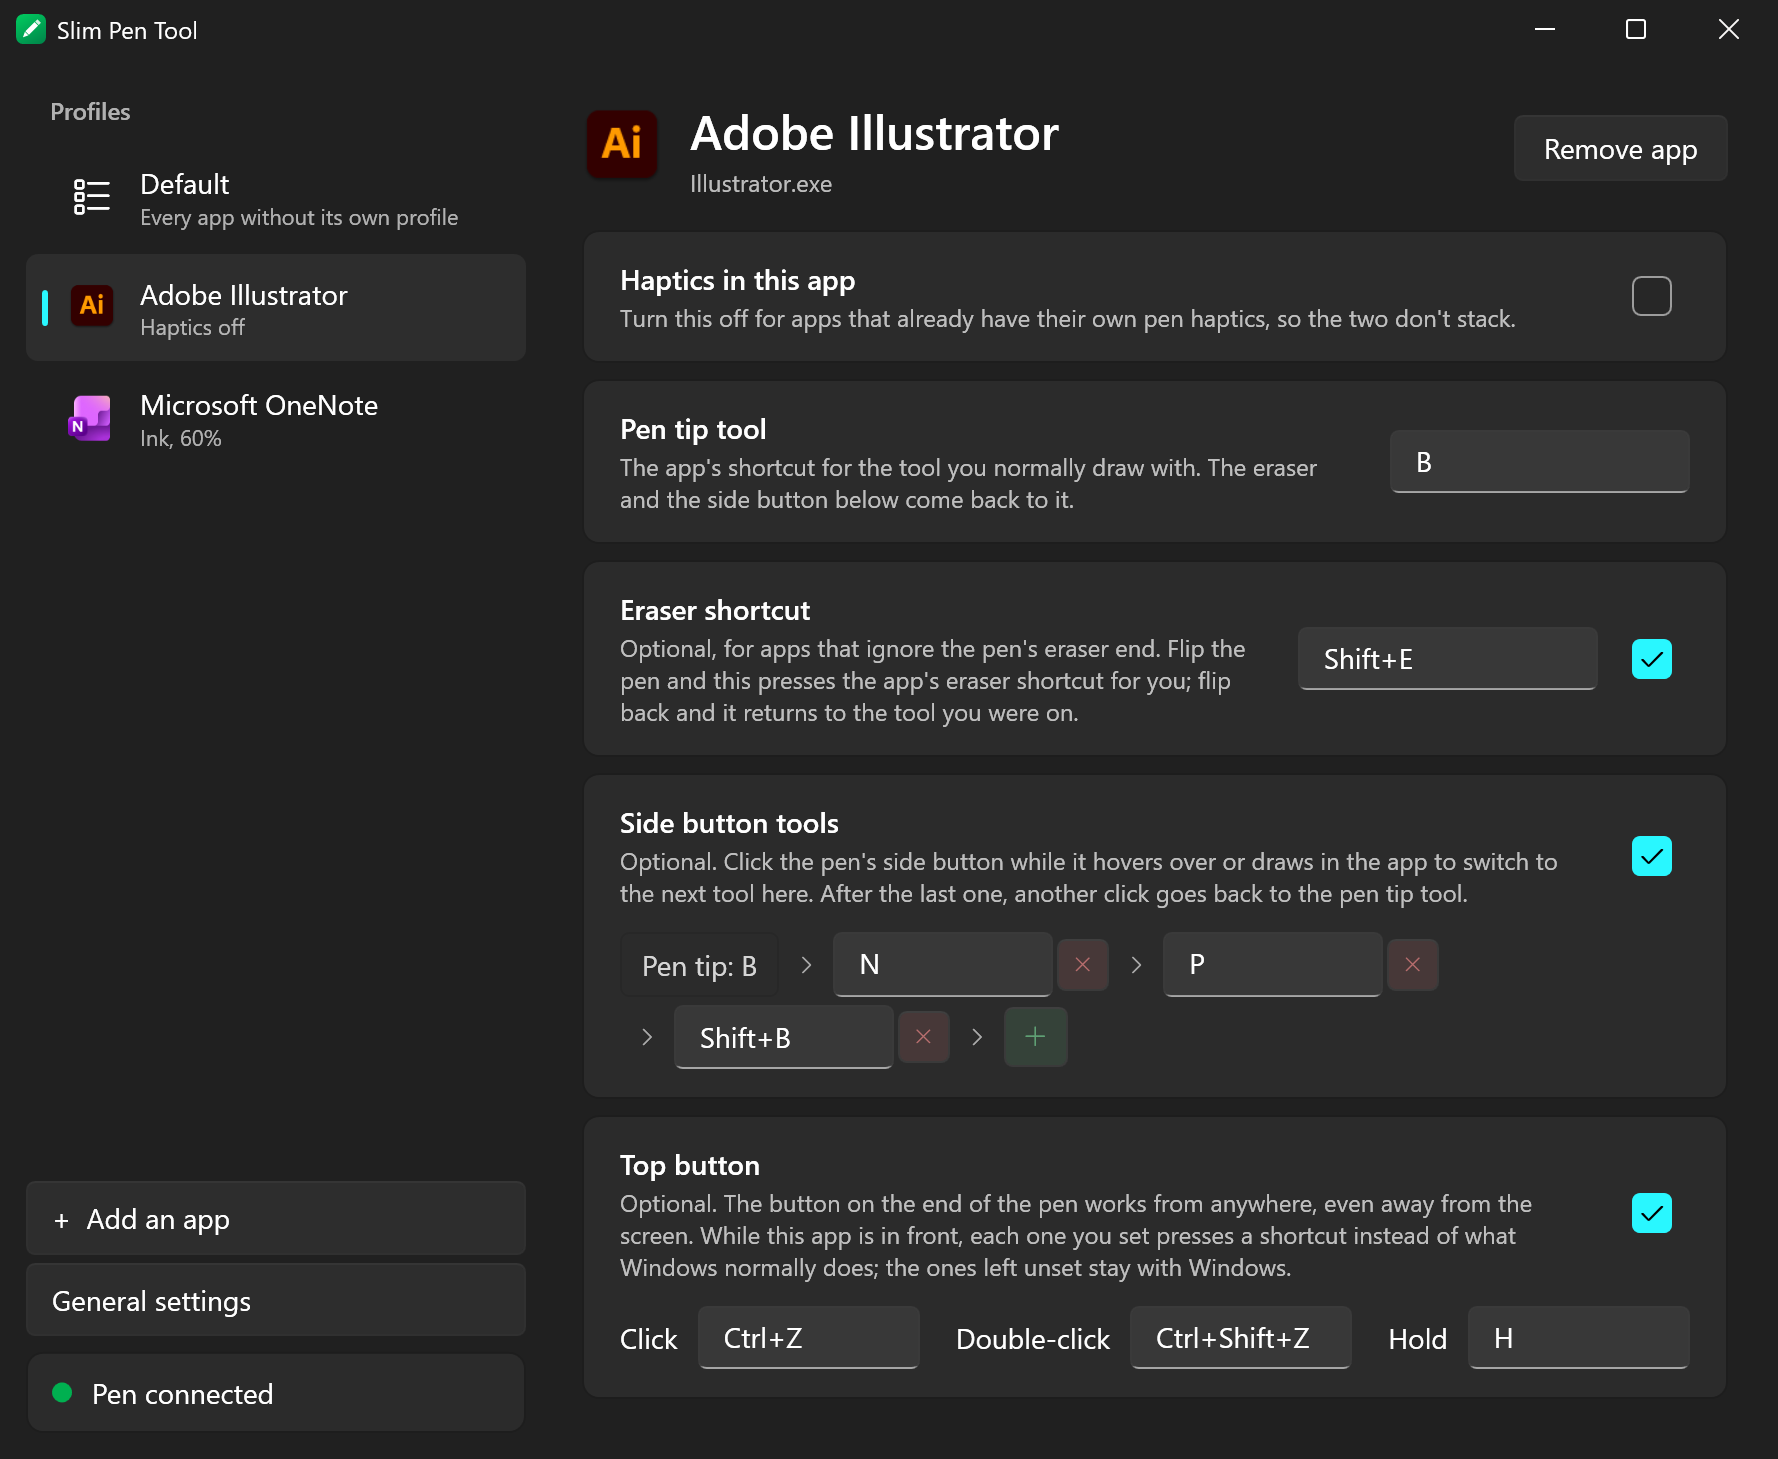
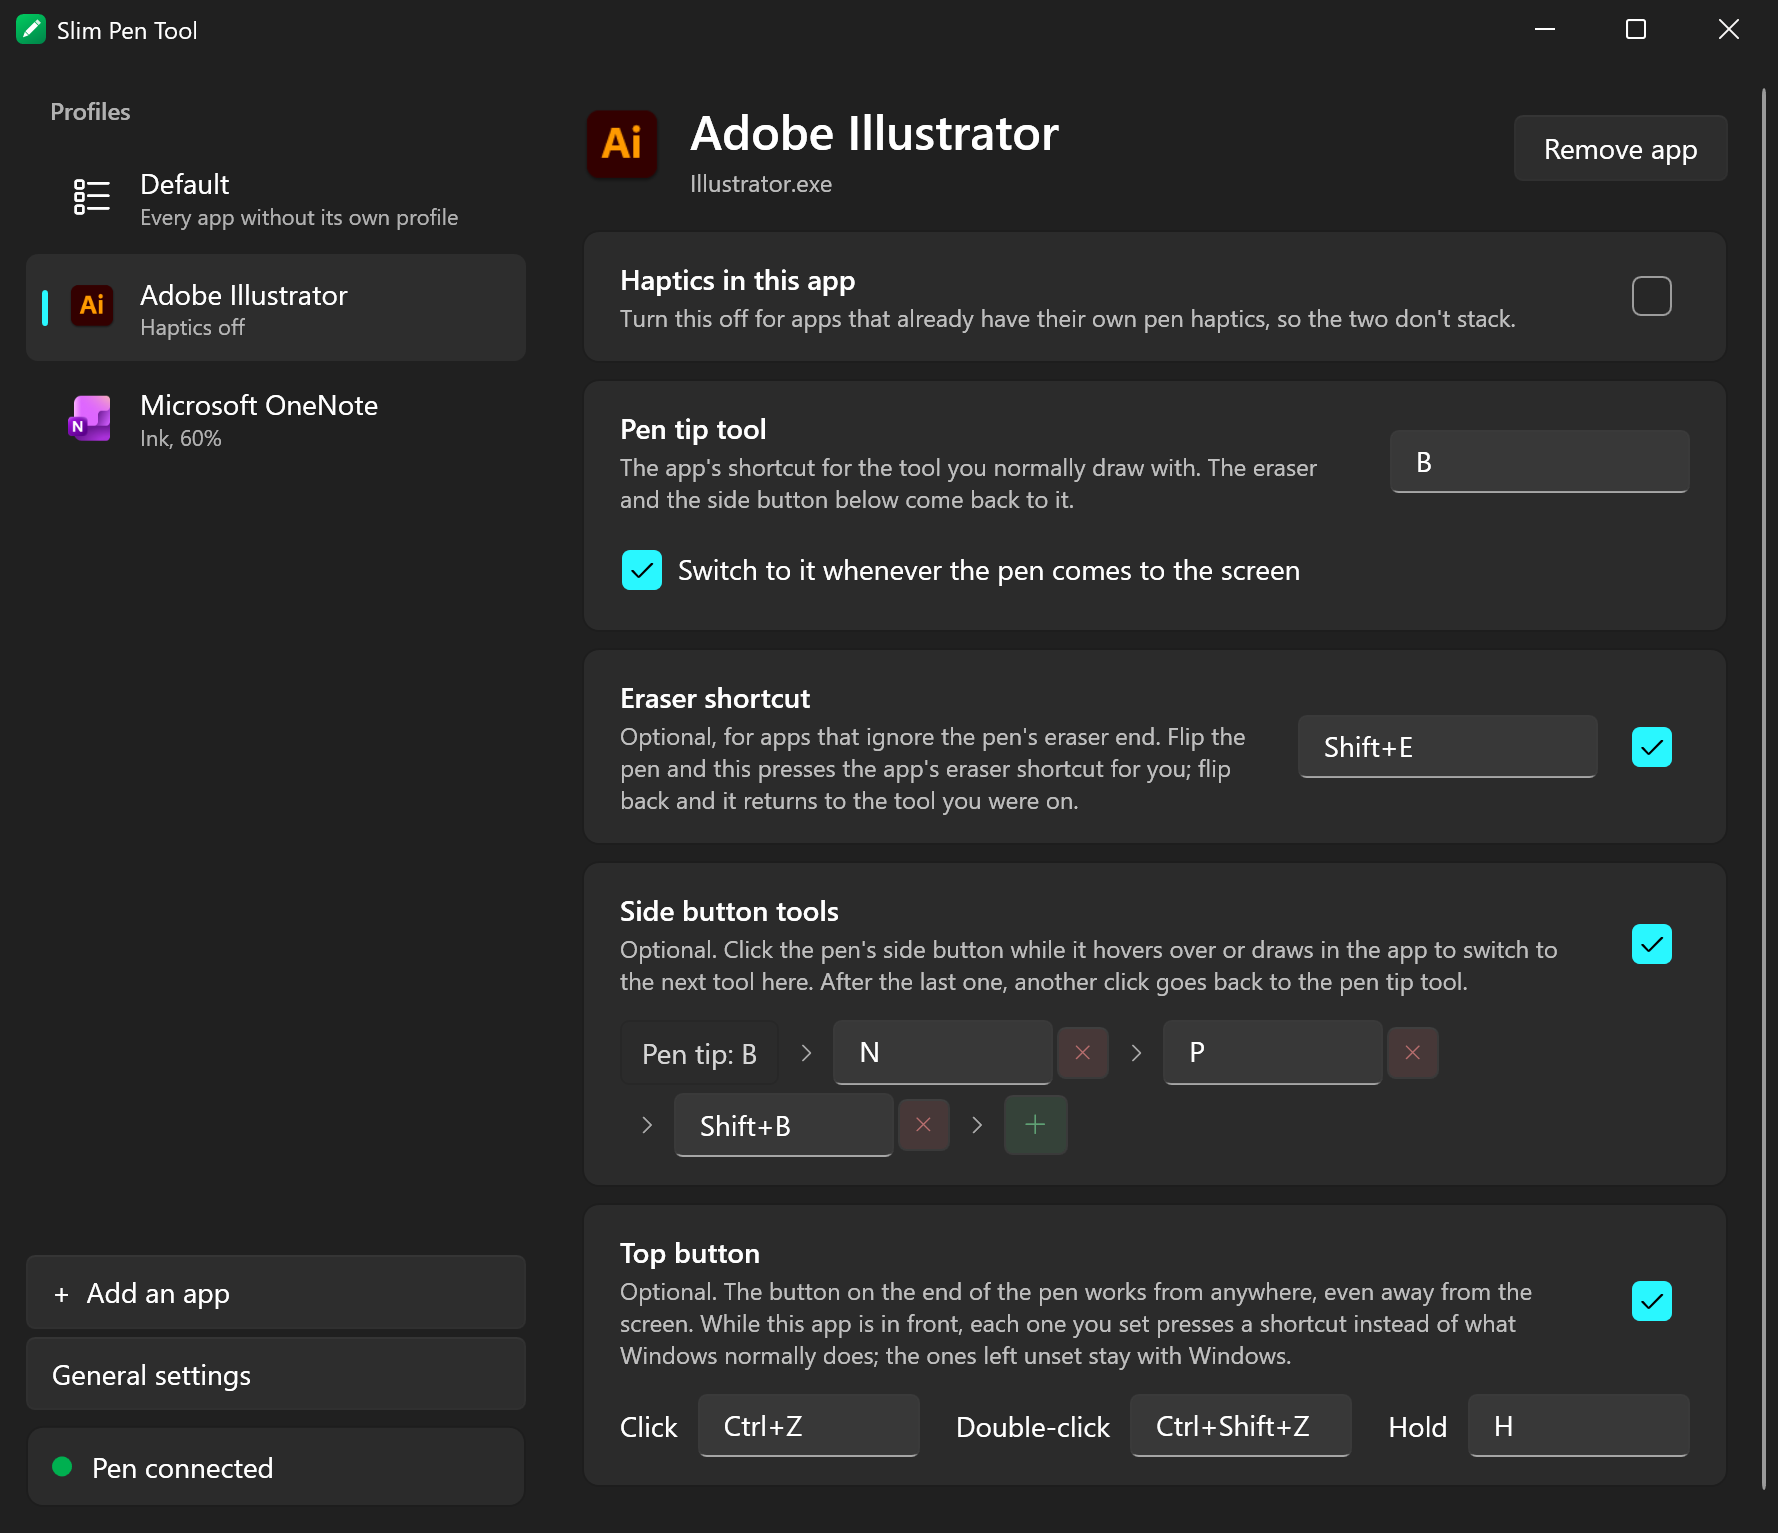
README: screenshots and Pen tip tool option for 2.3.3

diff --git a/README.md b/README.md
@@ -29,7 +29,7 @@ Windows only lets approved apps drive the pen's haptic motor. Slim Pen Tool send
 
 Each of the pen's controls can press a keyboard shortcut in the app you're using, set per app.
 
-- **Pen tip tool:** tell each app's profile the shortcut of the tool you normally draw with, and the eraser and side button below know where to return to.
+- **Pen tip tool:** tell each app's profile the shortcut of the tool you normally draw with, and the eraser and side button below know where to return to. Optionally, it switches to that tool every time you bring the pen to the screen, so the first stroke always uses it.
 - **Eraser shortcut:** for apps that ignore the pen's eraser end, flipping the pen presses that app's eraser shortcut for you, and flipping back returns to the tool you were on. Optional, set per app, and switched on with a checkbox.
 - **Side button tools:** click the pen's side button while it hovers over or draws in an app to switch to another tool by its shortcut. Add up to 10 tools with **+**; each click moves to the next, and after the last one it loops back to the pen tip tool. Optional, set per app.
 - **Top button shortcuts:** the button on the end of the pen works over Bluetooth, so it reaches your PC from anywhere. Give its click, double-click and hold each a shortcut per app; while that app is in front the shortcut is pressed instead of what Windows has assigned. Optional, and gestures you leave unset stay with Windows.
@@ -44,7 +44,7 @@ Each of the pen's controls can press a keyboard shortcut in the app you're using
 </p>
 
 <p align="center">
-  <img src="assets/screenshots/pen-tools.png" width="760" alt="The Adobe Illustrator profile with haptics off, so only the pen shortcuts show, all set up. Pen tip tool is B. Eraser shortcut is on, set to Shift+E. Side button tools is on, with a loop running from Pen tip B to N, P and Shift+B, each with a red remove button, and a green plus button to add another. Top button is on, with Click set to Ctrl+Z, Double-click to Ctrl+Shift+Z and Hold to H.">
+  <img src="assets/screenshots/pen-tools.png" width="760" alt="The Adobe Illustrator profile with haptics off, so only the pen shortcuts show, all set up. Pen tip tool is B, with Switch to it whenever the pen comes to the screen ticked. Eraser shortcut is on, set to Shift+E. Side button tools is on, with a loop running from Pen tip B to N, P and Shift+B, each with a red remove button, and a green plus button to add another. Top button is on, with Click set to Ctrl+Z, Double-click to Ctrl+Shift+Z and Hold to H.">
 </p>
 
 <p align="center">
@@ -52,7 +52,7 @@ Each of the pen's controls can press a keyboard shortcut in the app you're using
 </p>
 
 <p align="center">
-  <img src="assets/screenshots/whats-new.png" width="430" alt="The What's new window shown after updating from 2.3.0 to 2.3.2. Under Version 2.3.2: A new name, Slim Pen Tool. Under Version 2.3.1: A tidier profile page, Nothing greyed out, Clearer switches and A new home on GitHub. A Got it button closes it.">
+  <img src="assets/screenshots/whats-new.png" width="430" alt="The What's new window shown after updating from 2.3.1 to 2.3.3. Under Version 2.3.3: Pen tip tool when the pen arrives. Under Version 2.3.2: A new name, Slim Pen Tool. A Got it button closes it.">
 </p>
 
 ## Download and install
@@ -126,7 +126,7 @@ To build the installers, portable zips and update files for both architectures, 
 
 ```
 dotnet tool install -g vpk
-.\scripts\release.ps1 -Version 2.3.2
+.\scripts\release.ps1 -Version 2.3.3
 ```
 
 They are written to `artifacts\releases`. Adding `-Publish` also creates the GitHub release, which needs the `gh` command-line tool.
